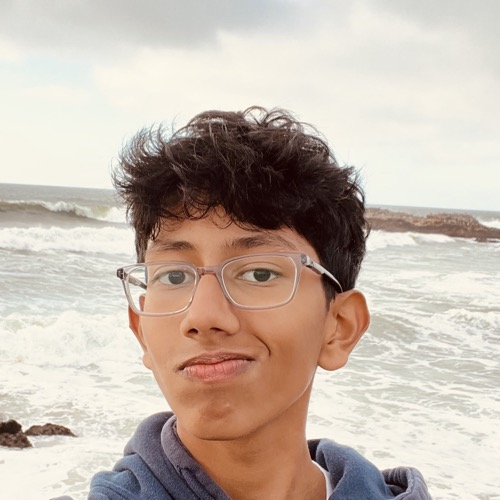
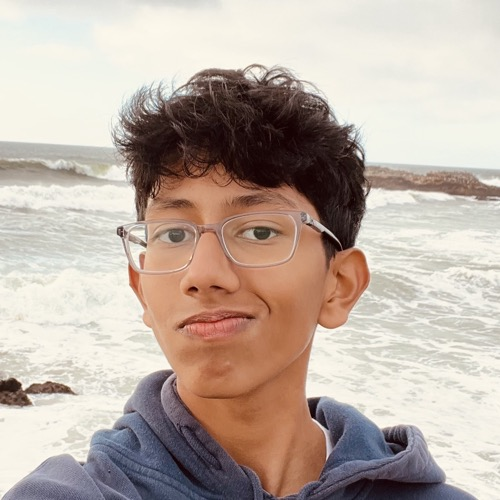
pfps
done!

diff --git a/team.html b/team.html
@@ -39,7 +39,7 @@
           </div>
 
           <div class="member-card">
-            <img src="media/aaron24.png" alt="Aaron" class="member-photo">
+            <img src="media/aaron25.jpg" alt="Aaron" class="member-photo">
             <h3>Aaron Lu</h3>
             <p><span class="role hardware">Hardware Team</span><br>Outreach Team<br> Mascot</p>
           </div>
@@ -63,7 +63,7 @@
           </div>
 
           <div class="member-card">
-            <img src="media/aniket25.webp" alt="Aniket" class="member-photo">
+            <img src="media/aniket25.jpg" alt="Aniket" class="member-photo">
             <h3>Aniket M</h3>
             <p><span class="role hardware"><b>Hardware Team</b></span></p>
           </div>
@@ -75,7 +75,7 @@
           </div>
 
           <div class="member-card">
-            <img src="media/legend_logo.png" alt="Eli Ying" class="member-photo">
+            <img src="media/eli25.jpg" alt="Eli Ying" class="member-photo">
             <h3>Eli Ying</h3>
             <p><span class="role software"><b>Software Team</b></span><br>Hardware Team</p>
           </div>
@@ -87,13 +87,13 @@
           </div>
 
           <div class="member-card">
-            <img src="media/legend_logo.png" alt="Avyukt Gujral" class="member-photo">
+            <img src="media/avyukt25.jpg" alt="Avyukt Gujral" class="member-photo">
             <h3>Avyukt Gujral</h3>
             <p><span class="role hardware"><b>Hardware Team</b></span></p>
           </div>
 
           <div class="member-card">
-            <img src="media/legend_logo.png" alt="Kaitlyn Quang" class="member-photo">
+            <img src="media/kaitlyn25.jpg" alt="Kaitlyn Quang" class="member-photo">
             <h3>Kaitlyn Quang</h3>
             <p><span class="role outreach"><b>Outreach Team</b></span><br>Software Team</p>
           </div>
